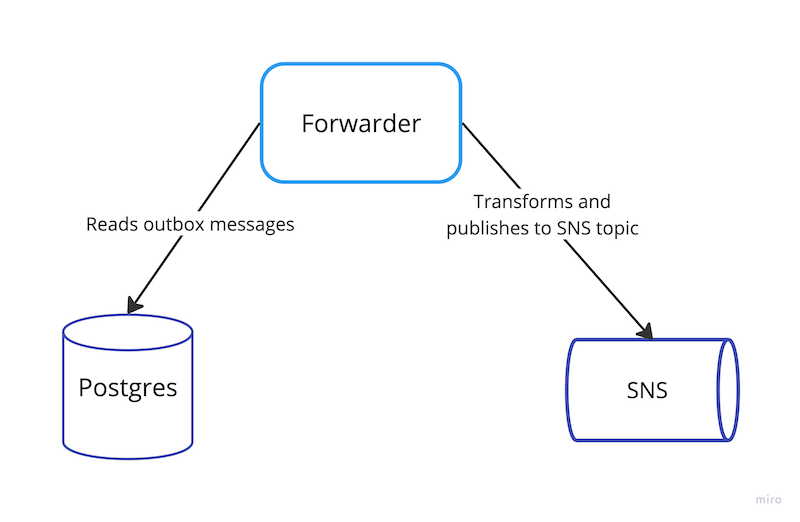
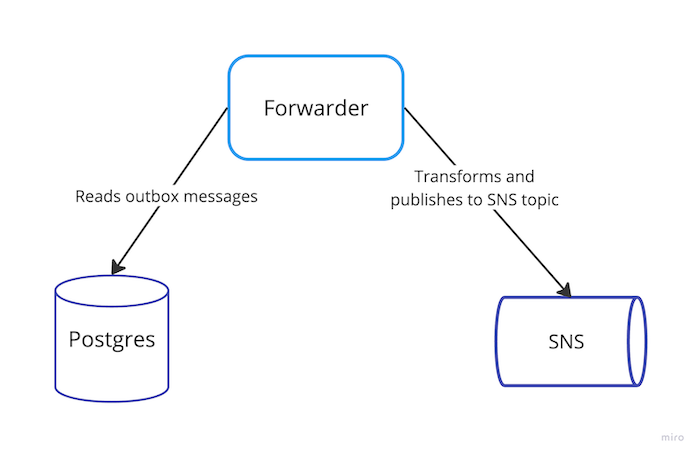
20250122 - Helsinki Gophers meetup: fix other images for Mac screen

diff --git a/20250122-helsinki-gophers-meetup/index.html b/20250122-helsinki-gophers-meetup/index.html
@@ -32,6 +32,12 @@
         code[class*="language-"] {
             white-space: pre !important; /* Maintain preformatted text */
         }
+
+        .fit-height {
+            max-height: 80%; /* Adjust to fit the image within the slide height */
+            max-width: 100%; /* Ensure it doesn't overflow horizontally */
+            object-fit: contain; /* Maintain the aspect ratio */
+        }
     </style>
 
 </head>
@@ -283,7 +289,7 @@
 
         <section>
             <h2>Message relay</h2>
-            <img src="images/forwarder.png" alt="">
+            <img class="fit-height" src="images/forwarder.png" alt="">
         </section>
 
 
@@ -335,7 +341,7 @@
             <p>Test coverage 80%</p>
 
             <img src="images/gh_qr.png" alt=""
-                 style="position: absolute; right: 5%; top: 50%; transform: translateY(-50%); height: 250px;">
+                 style="position: absolute; right: 5%; top: 50%; transform: translateY(-50%); height: 225px;">
         </section>
 
         <section>
@@ -354,6 +360,7 @@
             <p>Testcontainers: Postgres, LocalStack modules</p>
             <p>Mocks: vektra/mockery</p>
             <p>Suite: stretchr/testify/suite</p>
+            <p>Linters: testifylint</p>
         </section>
 
         <section>
